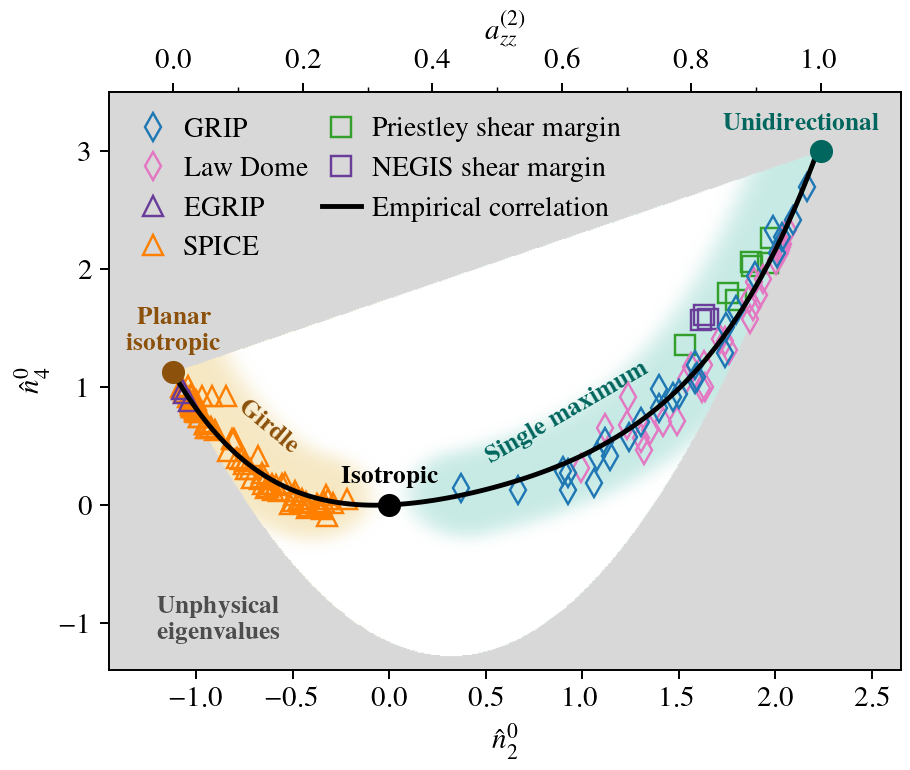
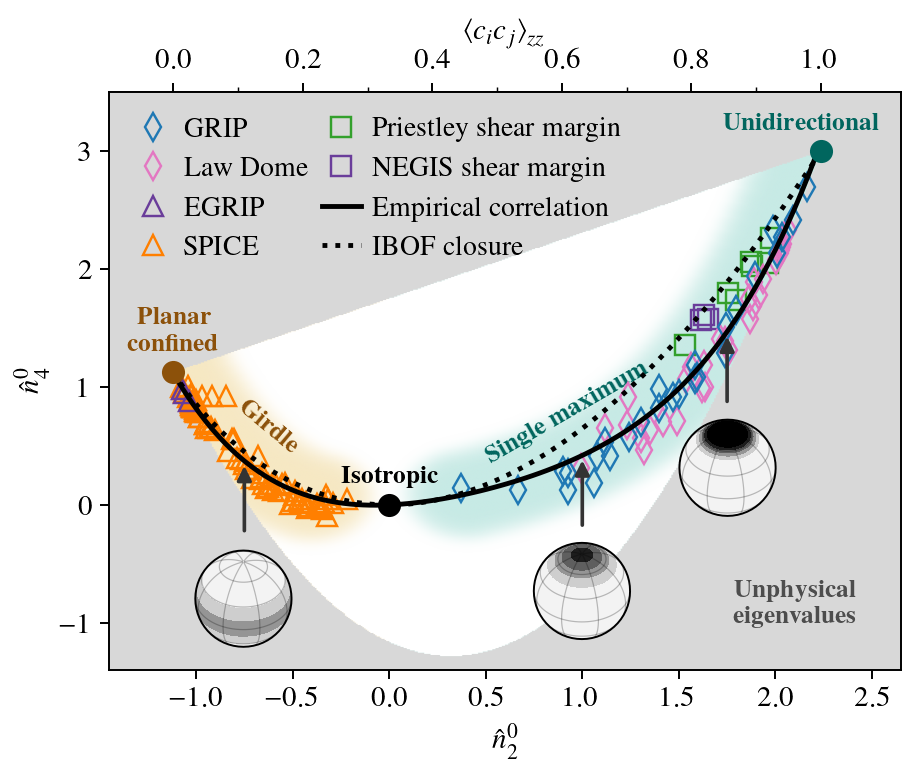
updated state space validation plots

diff --git a/demo/state-space-validation/ice/nhat40_empcorr.py b/demo/state-space-validation/ice/nhat40_empcorr.py
@@ -81,6 +81,18 @@ p_model = np.poly1d(np.flipud(nhat40_pc))
 y_corr = sf.nhat40_empcorr_ice(x_corr) 
 
 #--------------------
+# IBOF closure from Elmer/Ice
+#--------------------
+
+y_IBOF = y_corr * 0 # init
+
+for ii, x in enumerate(x_corr):
+    nlm_hat = np.zeros((nlm_len), dtype=np.complex128)
+    nlm_hat[[0,3]] = [1, x]
+    nlm_ = sf.a4_to_nlm(sf.a4_IBOF(sf.a2(nlm_hat*1/np.sqrt(4*np.pi))))
+    y_IBOF[ii] = nlm_[10]/nlm_[0] # nhat40 
+
+#--------------------
 # Construct plot
 #--------------------
 
@@ -177,15 +189,14 @@ nlm_girdle = np.real(sf.a4_to_nlm(a4))
 #print(nlm_girdle, nlm_girdle[3],nlm_girdle[10])
 x_, y_ = np.real(nlm_girdle[3])/normfac, np.real(nlm_girdle[10])/normfac
 ax.plot(x_, y_, marker='o', ms=mse, ls='none', c=c_girdle, label=None, zorder=20)
-plt.text(x_, y_+dytext, '{\\bf Planar}\n\\bf{isotropic}', color=c_girdle, ha='center', va='bottom', ma='center', fontsize=FSANNO)
+plt.text(x_, y_+dytext, '{\\bf Planar}\n\\bf{confined}', color=c_girdle, ha='center', va='bottom', ma='center', fontsize=FSANNO)
 
-print(n40_delta, y_)
+#print(n40_delta, y_)
 
 # Shading labels
 plt.text(0.26/normfac, 0.1/normfac, '{\\bf Single maximum}', color=c_smax, ha='center', rotation=30, fontsize=FSANNO)
 plt.text(-0.175/normfac, 0.125/normfac, '{\\bf Girdle}', color=c_girdle, ha='center', rotation=-40, fontsize=FSANNO)
-
-plt.text(-0.25/normfac, -0.32/normfac, '{\\bf Unphysical}\n\\bf{eigenvalues}', color='0.3', ha='center', rotation=0, fontsize=FSANNO)
+plt.text(2.1, -1, '{\\bf Unphysical}\n\\bf{eigenvalues}', color='0.3', ha='center', rotation=0, fontsize=FSANNO)
 
 ### Experimental data points
 
@@ -201,6 +212,8 @@ for ii,expr in enumerate(experiments):
 ### Plot correlation
 
 ax.plot(x_corr, y_corr, '-k', lw=2, label='Empirical correlation', zorder=10)
+
+ax.plot(x_corr, y_IBOF, ':k', lw=2, label='IBOF closure', zorder=10)
 
 ### Aux
 
@@ -218,10 +231,64 @@ plt.ylim(ylims)
 ### Second x axis for a_zz^(2) comparrison 
 
 secax = ax.secondary_xaxis('top', functions=(n20_to_azz, azz_to_n20))
-secax.set_xlabel(r'$a^{(2)}_{zz}$')
+#secax.set_xlabel(r'$a^{(2)}_{zz}$')
+secax.set_xlabel(r'$\ev*{c_i c_j}_{zz}$')
 xticks = np.arange(0,1+1e-3,0.1)
 secax.set_xticks(xticks[0::2])
 secax.set_xticks(xticks[::1], minor=True)
+
+
+### Plot ODF insets?
+
+if 1:
+
+    inclination = 50 # view angle
+    rot0 = -90
+    rot = -20 + rot0 
+    prj = ccrs.Orthographic(rot, 90-inclination)
+    geo = ccrs.Geodetic()     
+
+    W = 0.125 # ax width
+    tickintvl=1
+    
+    ### Modeled data
+    
+    arrmag = 0.125
+    arr = lambda ang: arrmag*np.array([np.cos(np.deg2rad(ang)),np.sin(np.deg2rad(ang))])
+    n00 = 1/np.sqrt(4*np.pi)
+    nlm_constructor = lambda nhat20: np.array([n00, 0,0,nhat20*n00,0,0, 0,0,0,0,sf.nhat40_empcorr_ice(nhat20)[0]*n00,0,0,0,0], dtype=np.complex128)
+    ODF_plots = (\
+        {'nlm':nlm_constructor(-0.75), 'title':'', 'axloc':(0.205, 0.16), 'darr':arr(-90), 'lvlmax':0.4}, \
+        {'nlm':nlm_constructor(+1.00), 'title':'', 'axloc':(0.577, 0.17), 'darr':arr(-90), 'lvlmax':0.4}, \
+        {'nlm':nlm_constructor(+1.75), 'title':'', 'axloc':(0.737, 0.33), 'darr':arr(-90), 'lvlmax':0.4}, \
+    )
+
+    for ODF in ODF_plots:
+
+        axpos = [ODF['axloc'][0],ODF['axloc'][1], W,W]
+        axin = plt.axes(axpos, projection=prj) #, transform=ax.transData)
+        axin.set_global()
+        
+        nlm = ODF['nlm']
+        lvls = np.linspace(0.0,ODF['lvlmax'],6)
+    
+        F, lon,lat = discretize_ODF(nlm, lm)
+        F[F<0] = 0 # fix numerical/truncation errors
+        h = axin.contourf(np.rad2deg(lon), np.rad2deg(lat), F, transform=ccrs.PlateCarree(), levels=lvls, extend=('max' if lvls[0]==0.0 else 'both'), cmap='Greys', nchunk=5) # "nchunk" argument must be larger than 0 for constant-ODF (e.g. isotropy) is plotted correctly.
+
+        # Arrow to ODF state
+        n20_, n40_ = np.real(nlm[3])/normfac, np.real(nlm[10])/normfac
+        ax.annotate("", xy=(n20_, n40_), xycoords='data', \
+                        xytext=(n20_+ODF['darr'][0]/normfac, n40_+sc**2*ODF['darr'][1]/normfac), textcoords='data', \
+                        arrowprops=dict(arrowstyle="-|>", connectionstyle="arc3", linewidth=1.5, edgecolor='0.2', facecolor='0.2'),zorder=20)            
+
+        # Add grid lines
+        kwargs_gridlines = {'ylocs':np.arange(-90,90+30,30), 'xlocs':np.arange(0,360+45,45), 'linewidth':0.5, 'color':'black', 'alpha':0.25, 'linestyle':'-'}
+        gl = axin.gridlines(crs=ccrs.PlateCarree(), **kwargs_gridlines)
+        gl.xlocator = mticker.FixedLocator(np.array([-135, -90, -45, 0, 90, 45, 135, 180]))
+
+        axin.set_title(ODF['title'], fontsize=FS-3)
+
 
 ### Save figure
 

diff --git a/demo/state-space-validation/ice/state-space-validation.py b/demo/state-space-validation/ice/state-space-validation.py
@@ -216,10 +216,10 @@ legkwargs = {'handlelength':1.4, 'framealpha':1.0, 'fancybox':False, 'handletext
 ### Setup figure
 
 scale = 4.7
-fig = plt.figure(figsize=(1.8*scale,1.1*scale))
+fig = plt.figure(figsize=(1.6*scale,1.1*scale))
 plt.subplots_adjust(left=0.08, right=0.725, top=0.90, bottom=0.125)
 ax = plt.gca()
-xlims, ylims = [-1.45,2.65], [-1.8,3.75]
+xlims, ylims = [-1.40,2.65], [-1.8,3.75]
 sc = np.diff(ylims)/np.diff(xlims)
 x = np.linspace(xlims[0],xlims[1],RESX)
 y = np.linspace(ylims[0],ylims[1],RESY)
@@ -326,7 +326,7 @@ h_cc = plot_trajectory(ax, nlm_cc, arrpos=9,  c=c_smax)
 h_ce = plot_trajectory(ax, nlm_ce, arrpos=17, c=c_girdle)
 
 h_modellines = [h_ce, h_cc, h_ss, h_ddrx1, h_cdrx1]
-legend_strings = ['Lattice rotation, unconf. extension', 'Lattice rotation, unconf. compression', 'Lattice rotation, simple shear', 'DDRX', 'CDRX']
+legend_strings = ['Lattice rotation, uniaxial extension', 'Lattice rotation, uniaxial compression', 'Lattice rotation, simple shear', 'DDRX', 'CDRX']
 legend_modellines = plt.legend(h_modellines, legend_strings, title=r'{\bf Modelled fabric state trajectories}', title_fontsize=FSLEG, loc=2, ncol=1, fontsize=FSLEG, frameon=False, **legkwargs)
 
 ### End-member cases
@@ -354,7 +354,7 @@ nlm_girdle = np.real(sf.a4_to_nlm(a4))
 #print(nlm_girdle, nlm_girdle[3],nlm_girdle[10])
 x_, y_ = np.real(nlm_girdle[3])/normfac, np.real(nlm_girdle[10])/normfac
 ax.plot(x_, y_, marker='o', ms=mse, ls='none', c=c_girdle, label=None)
-plt.text(x_, y_+dytext, '{\\bf Planar}\n\\bf{isotropic}', color=c_girdle, ha='center', va='bottom', ma='center', fontsize=FSANNO)
+plt.text(x_, y_+dytext, '{\\bf Planar}\n\\bf{confined}', color=c_girdle, ha='center', va='bottom', ma='center', fontsize=FSANNO)
 
 # DDRX steady state
 x_, y_ = np.real(nlm_ddrx2[-1,3]),np.real(nlm_ddrx2[-1,10])
@@ -378,7 +378,7 @@ if 1:
     prj = ccrs.Orthographic(rot, 90-inclination)
     geo = ccrs.Geodetic()     
 
-    W = 0.13 # ax width
+    W = 0.12 # ax width
     tickintvl=1
 
     ### Load measured data
@@ -472,7 +472,7 @@ plt.sca(ax)
 plt.xlabel(r'$\hat{n}_2^0$')
 plt.ylabel(r'$\hat{n}_4^0$')
 
-leg = plt.legend(bbox_to_anchor=(1.41,1.02), title=r'{\bf Observations}', title_fontsize=FSLEG, fontsize=FSLEG, frameon=True, **legkwargs); 
+leg = plt.legend(bbox_to_anchor=(1.43,1.02), title=r'{\bf Observations}', title_fontsize=FSLEG, fontsize=FSLEG, frameon=True, **legkwargs); 
 leg.get_frame().set_linewidth(0.7);
 ax.add_artist(legend_modellines)
 

diff --git a/demo/state-space-validation/ice/experiments.py b/demo/state-space-validation/ice/experiments.py
@@ -13,7 +13,7 @@ import glob
 
 expr_Hunter = {\
     'path': 'Hunter_etal', \
-    'plotname': 'H22, unconf. compr., warm', \
+    'plotname': 'H22, uniax. compr., warm', \
     'type':'ucw', \
     'coords':'quaternion', \
     'flist': ['MD14/md14.csv','MD12/md12.csv','MD4/md4.csv','MD22/md22.csv', \
@@ -41,7 +41,7 @@ expr_Qi = {\
 # (Fan et al., 2020, 2021)
 expr_Fan_30 = {\
     'path': 'Fan_etal_-30', \
-    'plotname': 'F20, unconf. compr., cold', \
+    'plotname': 'F20, uniax. compr., cold', \
     'type':'uc', \
     'coords':'quaternion', \
     'flist': ['series_-30/PIL165_30mu.ctf.csv', 'series_-30/PIL166_30mu.ctf.csv', 'series_-30/PIL243_30mu.ctf.csv'], \
@@ -63,7 +63,7 @@ expr_Fan_20 = {\
 
 expr_Fan_10 = {\
     'path': 'Fan_etal_-10', \
-    'plotname': 'F20, unconf. compr., warm', \
+    'plotname': 'F20, uniax. compr., warm', \
     'type':'ucw', \
     'coords':'quaternion', \
 #    'flist': ['series_-10/PIL007_30mu.crc.csv','series_-10/PIL163_30mu.crc.csv','series_-10/PIL176_30mu.crc.csv','series_-10/PIL177_30mu.crc.csv','series_-10/PIL178_30mu.crc.csv',], \

diff --git a/demo/state-space-validation/ice/truncation-and-regularization.py b/demo/state-space-validation/ice/truncation-and-regularization.py
@@ -236,7 +236,7 @@ nlm_girdle = np.real(sf.a4_to_nlm(a4))
 #print(nlm_girdle, nlm_girdle[3],nlm_girdle[10])
 x_, y_ = np.real(nlm_girdle[3])/normfac, np.real(nlm_girdle[10])/normfac
 ax.plot(x_, y_, marker='o', ms=mse, ls='none', c=c_girdle, label=None)
-ax.text(x_, y_+dytext, '{\\bf Planar}\n\\bf{isotropic}', color=c_girdle, ha='center', va='bottom', ma='center', fontsize=FSANNO)
+ax.text(x_, y_+dytext, '{\\bf Planar}\n\\bf{confined}', color=c_girdle, ha='center', va='bottom', ma='center', fontsize=FSANNO)
 
 ### Power-spectrum cap
 if 1:
